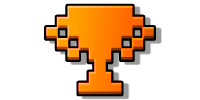
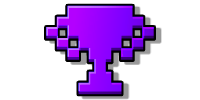
Added new trophy assets and edited required ranks for each trophy
These are to align with GD 2.208's new trophies added for top 2500, 5000, 10000, and >10000

Changed region(s): [[0.21, 0.03, 0.78, 0.96]]

diff --git a/src/hooks/ProfilePage.cpp b/src/hooks/ProfilePage.cpp
@@ -41,23 +41,25 @@ class $modify(PRProfilePage, ProfilePage) {
         CCParticleSystem* m_mParticleExtra2 = nullptr;
 
         // CONSTS
-        const std::vector<int> POS_CHECK = {1500, 1000, 750, 500, 200, 100, 50, 10, 1, -1};
+        const std::vector<int> POS_CHECK = {10000, 5000, 2500, 1000, 500, 200, 100, 50, 10, 1, -1};
         const std::map<int, ccColor3B> COLOR = {
-            {1500, ccColor3B{ 10, 10, 10 }},
-            {1000, ccColor3B{ 204, 75, 0 }},
-            {750, ccColor3B{ 185, 0, 179 }},
-            {500, ccColor3B{ 26, 160, 255 }},
-            {200, ccColor3B{ 23, 196, 0 }},
-            {100, ccColor3B{ 220, 7, 68 }},
+            {10000, ccColor3B{ 156, 156, 156 }},
+            {5000, ccColor3B{ 157, 102, 243 }},
+            {2500, ccColor3B{ 19, 193, 175 }},
+            {1000, ccColor3B{ 255, 106, 0 }},
+            {500, ccColor3B{ 185, 0, 179 }},
+            {200, ccColor3B{ 26, 160, 255 }},
+            {100, ccColor3B{ 23, 196, 0 }},
             {50, ccColor3B{ 255, 157, 0 }},
             {10, ccColor3B{ 255, 255, 255 }},
             {1, ccColor3B{ 255, 221, 0 }},
             {-1, ccColor3B{ 0, 255, 255 }},
         };
         const std::map<int, int> PARTICLE_COUNT = {
-            {1500, -1},
-            {1000, 5},
-            {750, 6},
+            {10000, -1},
+            {5000, -1},
+            {2500, -1},
+            {1000, -1},
             {500, 7},
             {200, 8},
             {100, 9},
@@ -67,9 +69,10 @@ class $modify(PRProfilePage, ProfilePage) {
             {-1, 13},
         };
         const std::map<int, int> EXTRA_PARTICLE_COUNT = {
-            {1500, -1},
+            {10000, -1},
+            {5000, -1},
+            {2500, -1},
             {1000, -1},
-            {750, -1},
             {500, -1},
             {200, -1},
             {100, -1},
@@ -79,9 +82,10 @@ class $modify(PRProfilePage, ProfilePage) {
             {-1, 30},
         };
         const std::map<int, int> SPARKLE_COUNT = {
-            {1500, -1},
+            {10000, -1},
+            {5000, -1},
+            {2500, -1},
             {1000, -1},
-            {750, -1},
             {500, -1},
             {200, -1},
             {100, -1},
@@ -91,9 +95,6 @@ class $modify(PRProfilePage, ProfilePage) {
             {-1, 4}
         };
     };
-
-    // FEAST your eyes on this MONSTROSITY, CATTO!!!
-    // - Kiba
 
     void rankingSetValues(int pos) { // Merged everything into one function because they're all the same anyways - Mocha
         PRProfilePage* page = this;
